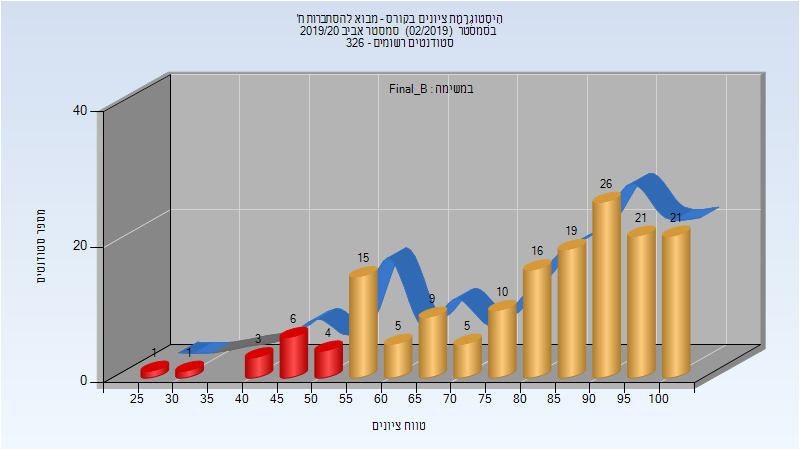
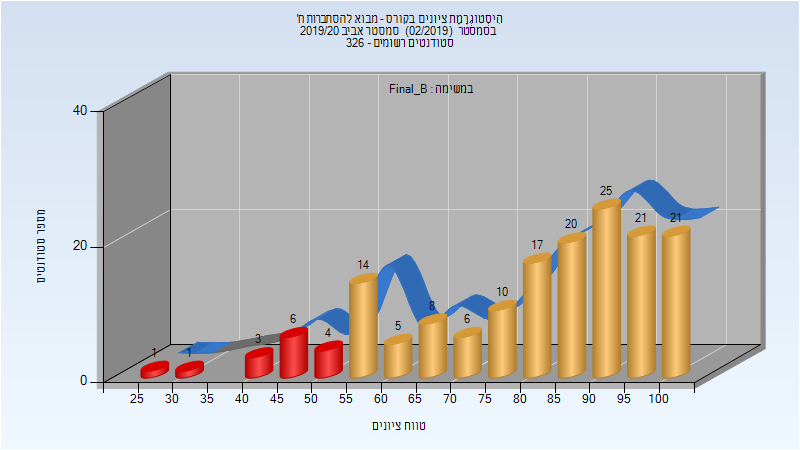
Deploy michael-maltsev/technion-histograms to github.com/michael-maltsev/technion-histograms.git:gh-pages

diff --git a/104034/index.html b/104034/index.html
@@ -2904,11 +2904,11 @@
 <tbody>
 <tr>
 <td>162</td>
-<td>140/22</td>
-<td>86</td>
+<td>141/21</td>
+<td>87</td>
 <td>27</td>
 <td>100</td>
-<td>79.698</td>
+<td>79.926</td>
 <td>85</td>
 </tr>
 </tbody>
@@ -2934,7 +2934,7 @@
 <td>91</td>
 <td>27</td>
 <td>100</td>
-<td>80.914</td>
+<td>81.123</td>
 <td>86</td>
 </tr>
 </tbody>

diff --git a/104034/README.md b/104034/README.md
@@ -916,7 +916,7 @@
 
 | סטודנטים | עברו/נכשלו | אחוז עוברים | ציון מינימלי | ציון מקסימלי | ממוצע | חציון |
 | ---- | ---- | ---- | ---- | ---- | ---- | ---- |
-| 162 | 140/22 | 86 | 27 | 100 | 79.698 | 85 |
+| 162 | 141/21 | 87 | 27 | 100 | 79.926 | 85 |
 
 ### סופי מועד ב'
 
@@ -924,7 +924,7 @@
 
 | סטודנטים | עברו/נכשלו | אחוז עוברים | ציון מינימלי | ציון מקסימלי | ממוצע | חציון |
 | ---- | ---- | ---- | ---- | ---- | ---- | ---- |
-| 162 | 147/15 | 91 | 27 | 100 | 80.914 | 86 |
+| 162 | 147/15 | 91 | 27 | 100 | 81.123 | 86 |
 
 ### סופי
 
